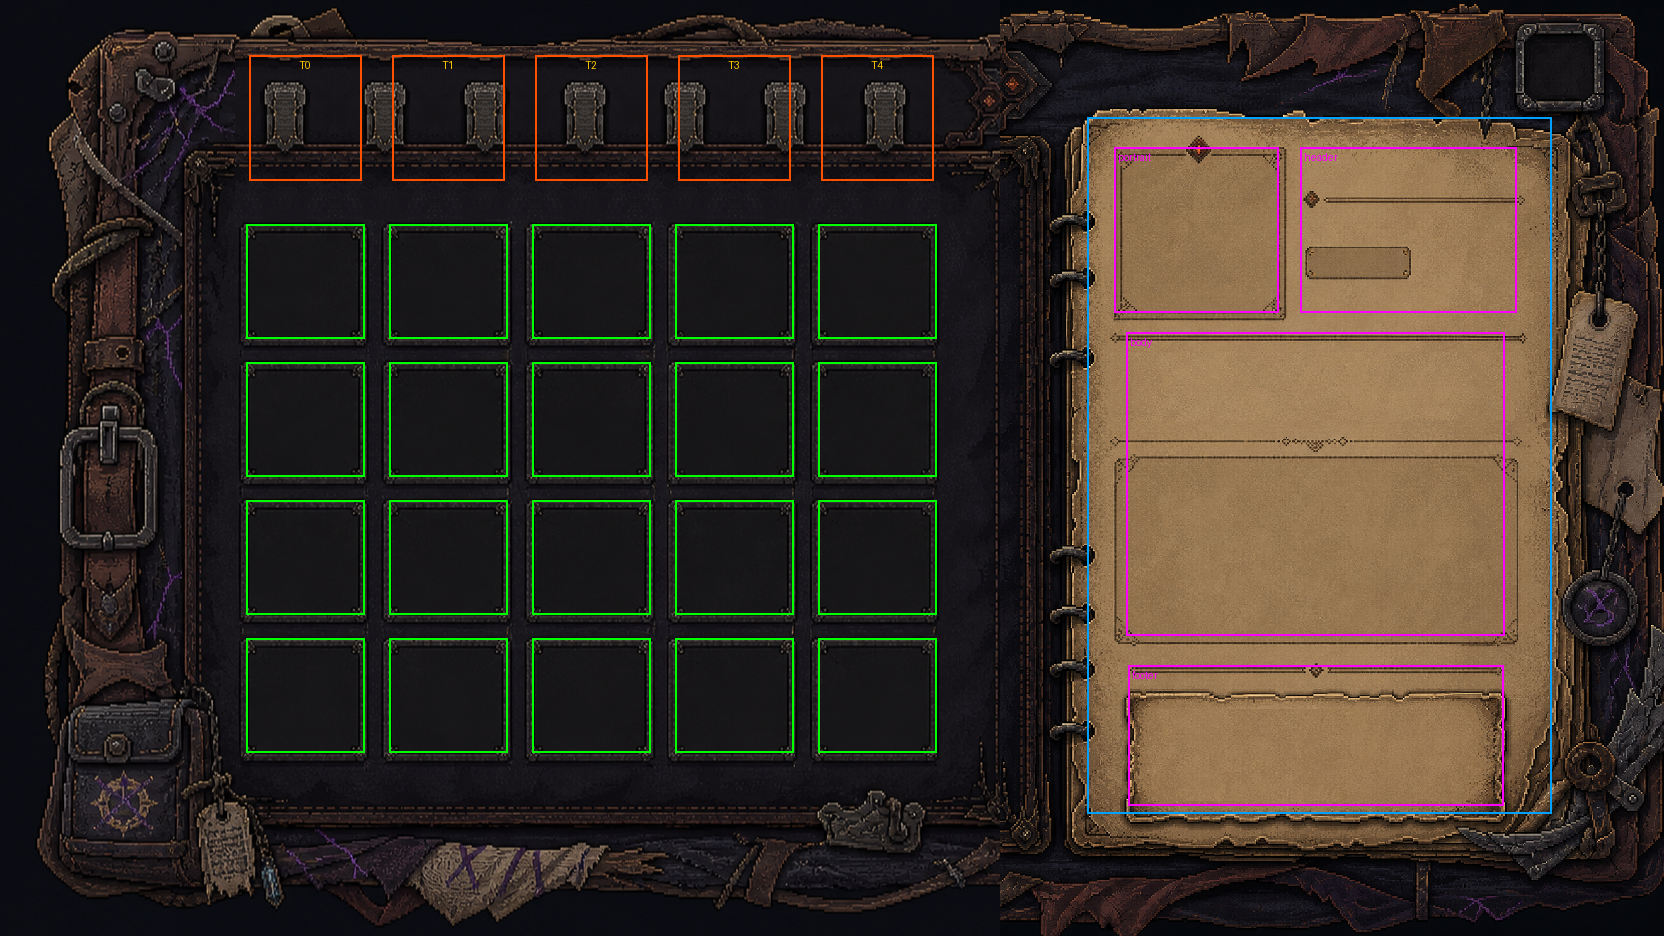
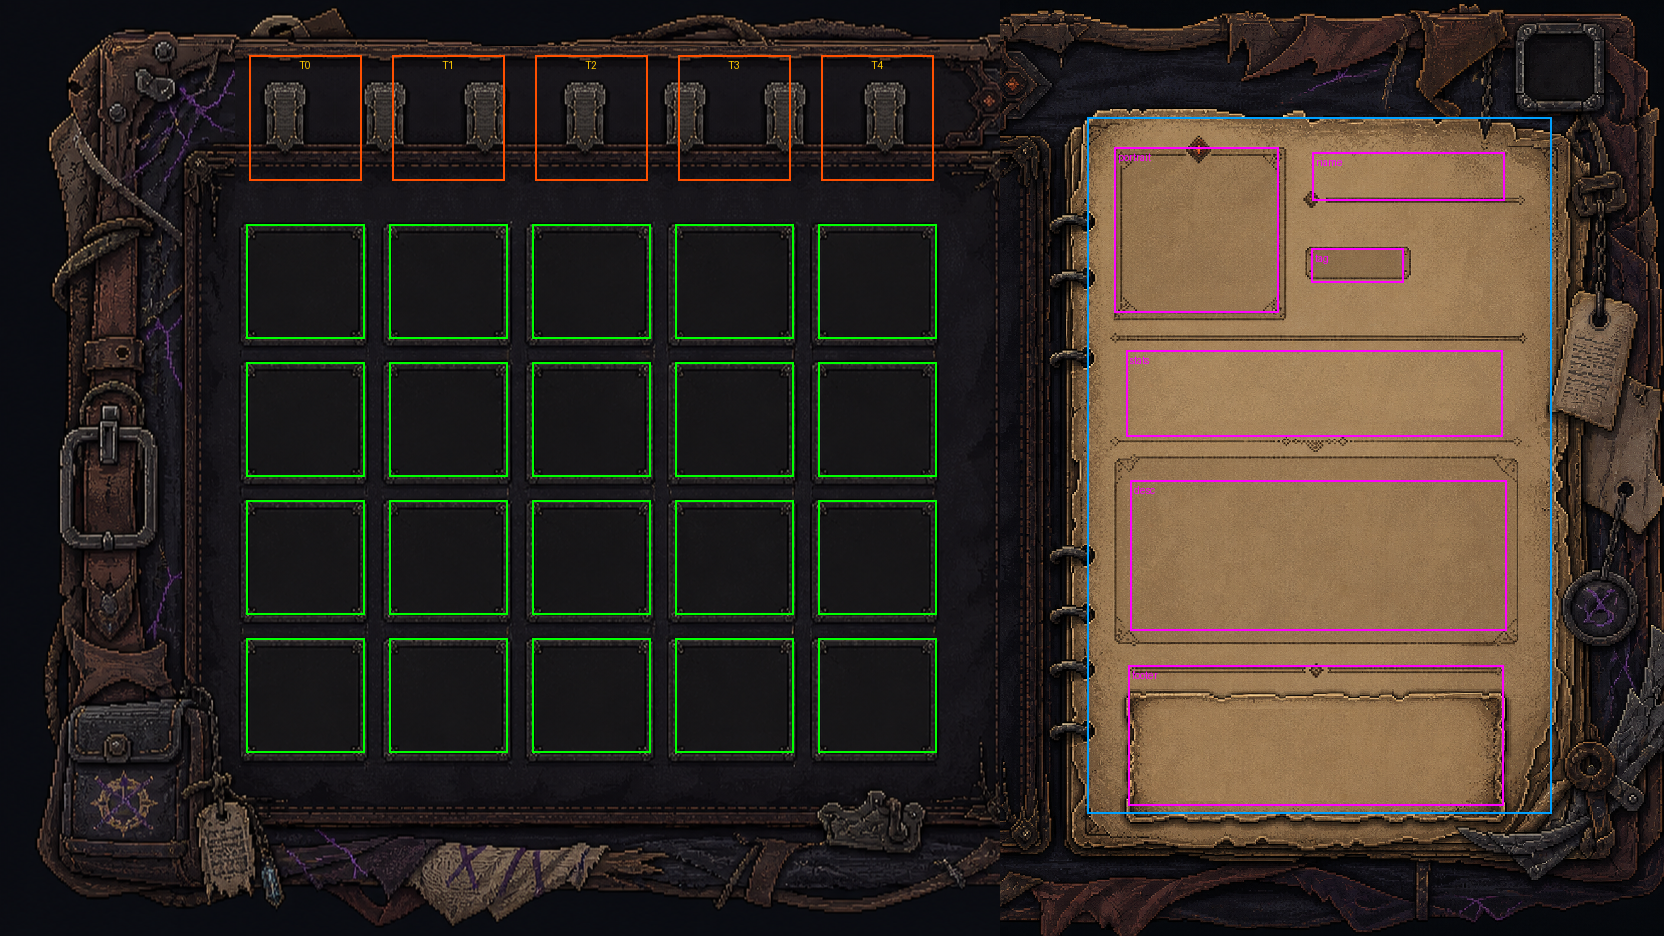
优化：背包详情页拆成 6 个精确分区，逐项贴合画稿画框
原 4 分区(portrait/header/body/footer)过粗：名称+分类章挤在一个 header 框、
数值+说明挤在一个 body 框，内容在大框内浮动，观感偏移。按画稿实际画死结构
拆成 6 个分区，每项内容各有精确归位：
- portrait 物品展示框 / name 物品名(横线之上,左对齐) / tag 物品标签(名牌框,居中)
  / stats 状态介绍(两横线之间) / desc 物品说明(描述框) / footer 状态栏。
- tools: PAGE_ZONES_FRAC 由 4 项改 6 项(比例标定自画稿,行尾注像素)，重生成
  layout.json/debug；clean-plate 不变。
- InventoryUI: _build_detail_header/_body 拆为 _build_detail_name/tag/stats/desc，
  分类章用 CenterContainer 居中名牌框；空背包提示改挂 desc 区。
- 引擎内 InventoryTest 验收：武器/消耗品/菜单态三例，名称/标签/数值/说明/操作
  各落其框；图标质心实测居中(误差≤1px,非偏移 bug)。

diff --git a/game/tools/ui_layout_extract.py b/game/tools/ui_layout_extract.py
@@ -53,13 +53,17 @@ TAB_CLEAN_SRC_X = (384, 434)
 TAB_STYLE = dict(top=55, width=112, selected_scale=1.08, selected_lift=8)
 
 # 详情页内分区（相对页矩形的比例：x,y,w,h ∈ [0,1]）—— 声明式，换图按比例自适应。
-# 比例标定自 v1 羊皮纸页实际画稿的四个画死框（梯度+目视核对），对应像素见行尾注释。
+# 6 个分区分别对应羊皮纸页实际画稿的 6 个画死结构（梯度+目视核对），对应像素见行尾注释：
+#   portrait 物品展示框 / name 物品名(横线之上) / tag 物品标签(名牌框) /
+#   stats 状态介绍(两横线之间) / desc 物品说明(描述框) / footer 状态栏(底部操作框)。
 # 页矩形 = [1087,117,464,696]。换美术后若画框位置变了，重测画框、按 (px-1087)/464、(py-117)/696 重算即可。
 PAGE_ZONES_FRAC = {
-	"portrait": (0.05819, 0.04310, 0.35345, 0.23707),   # 左上 物品大图框      px[1114,147,164,165]
-	"header":   (0.45905, 0.04310, 0.46552, 0.23707),   # 右上 名称+分类章     px[1300,147,216,165]
-	"body":     (0.08405, 0.30891, 0.81466, 0.43534),   # 中部 数值+说明 ruled px[1126,332,378,303]
-	"footer":   (0.08836, 0.78736, 0.80819, 0.20115),   # 底部 装备状态/操作菜单 px[1128,665,375,140]
+	"portrait": (0.05819, 0.04310, 0.35345, 0.23707),   # 物品展示框 左上大框 sprite  px[1114,147,164,165]
+	"name":     (0.48491, 0.05029, 0.41379, 0.06897),   # 物品名 横线之上 左对齐       px[1312,152,192,48]
+	"tag":      (0.48276, 0.18822, 0.19828, 0.04885),   # 物品标签 名牌框 分类章       px[1311,248,92,34]
+	"stats":    (0.08405, 0.33477, 0.81034, 0.12356),   # 状态介绍 两横线之间 数值      px[1126,350,376,86]
+	"desc":     (0.09267, 0.52155, 0.81034, 0.21552),   # 物品说明 描述框 Lore 文本     px[1130,480,376,150]
+	"footer":   (0.08836, 0.78736, 0.80819, 0.20115),   # 状态栏 底部圆角框 操作/装备   px[1128,665,375,140]
 }
 
 # debug 叠加图配色（BGR? 否，PIL 用 RGB）
